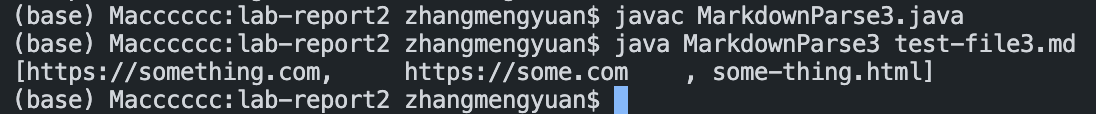
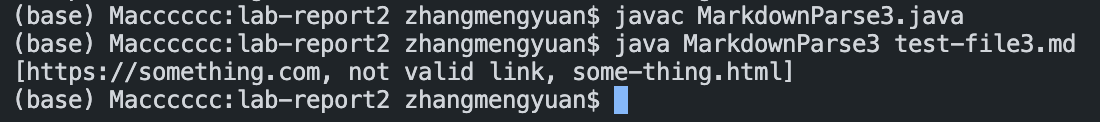
1

Changed region(s): [[0.0, 0.2632, 0.9927, 1.0], [0.0, 0.0263, 0.8996, 0.2632]]

diff --git a/lab-report2/MarkdownParse3.java b/lab-report2/MarkdownParse3.java
@@ -16,7 +16,7 @@ public class MarkdownParse3 {
             int closeBracket = markdown.indexOf("]", openBracket);
             int openParen = markdown.indexOf("(", closeBracket);
             int closeParen = markdown.indexOf(")", openParen);
-            toReturn.add(markdown.substring(openParen + 1, closeParen).trim());
+            toReturn.add(markdown.substring(openParen + 1, closeParen));
             currentIndex = closeParen + 1;
         }
 

diff --git a/lab-report2/test-file3.md b/lab-report2/test-file3.md
@@ -1,5 +1,5 @@
 # Title
 
 [link1](https://something.com)
-[link3](    https://some.com    )
+[link3](not valid link)
 [link2](some-thing.html)
